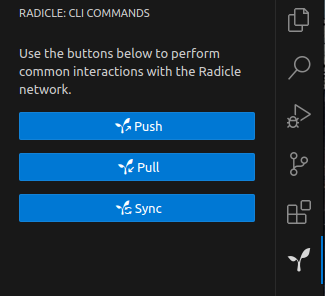
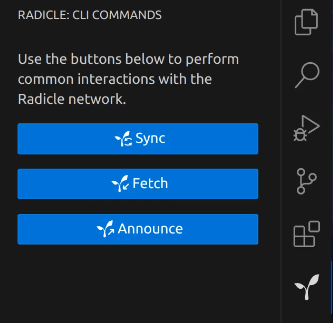
fix(commands): replace deprecated rad pull/push with fetch/announce

diff --git a/src/helpers/command.ts b/src/helpers/command.ts
@@ -8,32 +8,64 @@ import {
 } from '../ux'
 import { getRadCliRef } from '.'
 
-/**
- * PRE-CONDITION:
- *
- * Each command has a matching entry defined in package.json's `contributes.commands`.
- */
-const simpleRadCliCmdsToRegisterInVsCode = ['push', 'pull', 'sync'] as const
-type CmdCallback = Parameters<typeof commands.registerCommand>['1']
-
-function registerSimpleVsCodeCmd(name: string, action: CmdCallback): void {
-  getExtensionContext().subscriptions.push(commands.registerCommand(`radicle.${name}`, action))
+interface RadCliCmdMappedToVscodeCmdId {
+  /**
+   * The ID used within the app's source code to reference the VS Code command.
+   *
+   * PRE-CONDITIONS:
+   * - Must match an entry defined in package.json's `contributes.commands`
+   *
+   * @example 'radicle.fetch'
+   */
+  vscodeCmdId: `radicle.${string}`
+  /**
+   * The actual sub-command to be run by the Radicle CLI. Value will be appended to a
+   * reference to the rad binary before executing it in the shell:
+   *
+   * @example 'sync --fetch' // `rad sync --fetch`
+   */
+  radCliCmdSuffix: string
 }
 
-function registerSimpleRadCliCmdsAsVsCodeCmds(cmds: string[] | readonly string[]): void {
+const simpleRadCliCmdsToRegisterInVsCode: Parameters<
+  typeof registerSimpleRadCliCmdsAsVsCodeCmds
+>['0'] = [
+  { vscodeCmdId: 'radicle.sync', radCliCmdSuffix: 'sync' },
+  { vscodeCmdId: 'radicle.fetch', radCliCmdSuffix: 'sync --fetch' },
+  { vscodeCmdId: 'radicle.announce', radCliCmdSuffix: 'sync --announce' },
+] as const
+
+function registerSimpleVsCodeCmd(
+  vscodeCmdId: RadCliCmdMappedToVscodeCmdId['vscodeCmdId'],
+  action: Parameters<typeof commands.registerCommand>['1'],
+): void {
+  getExtensionContext().subscriptions.push(commands.registerCommand(vscodeCmdId, action))
+}
+
+function registerSimpleRadCliCmdsAsVsCodeCmds(
+  cmdConfigs: readonly RadCliCmdMappedToVscodeCmdId[],
+): void {
   const button = 'Show output'
 
-  cmds.forEach((radCliCmd) =>
+  cmdConfigs.forEach((cmdConfig) =>
     getExtensionContext().subscriptions.push(
-      commands.registerCommand(`radicle.${radCliCmd}`, async () => {
+      commands.registerCommand(cmdConfig.vscodeCmdId, async () => {
         const didAuth = await authenticate()
         const didCmdSucceed =
-          didAuth && Boolean(exec(`${getRadCliRef()} ${radCliCmd}`, { shouldLog: true }))
+          didAuth &&
+          Boolean(
+            exec(`${getRadCliRef()} ${cmdConfig.radCliCmdSuffix}`, {
+              cwd: '$workspaceDir',
+              shouldLog: true,
+            }),
+          )
 
         didCmdSucceed
-          ? window.showInformationMessage(`Command "rad ${radCliCmd}" succeeded`)
+          ? window.showInformationMessage(
+              `Command "rad ${cmdConfig.radCliCmdSuffix}" succeeded`,
+            )
           : window
-              .showErrorMessage(`Command "rad ${radCliCmd}" failed`, button)
+              .showErrorMessage(`Command "rad ${cmdConfig.radCliCmdSuffix}" failed`, button)
               .then((userSelection) => {
                 userSelection === button && showLog()
               })
@@ -48,7 +80,7 @@ function registerSimpleRadCliCmdsAsVsCodeCmds(cmds: string[] | readonly string[]
 export function registerAllCommands(): void {
   registerSimpleRadCliCmdsAsVsCodeCmds(simpleRadCliCmdsToRegisterInVsCode)
 
-  registerSimpleVsCodeCmd('showExtensionLog', showLog)
-  registerSimpleVsCodeCmd('deAuthCurrentIdentity', deAuthCurrentRadicleIdentity)
-  registerSimpleVsCodeCmd('clone', selectAndCloneRadicleProject)
+  registerSimpleVsCodeCmd('radicle.showExtensionLog', showLog)
+  registerSimpleVsCodeCmd('radicle.deAuthCurrentIdentity', deAuthCurrentRadicleIdentity)
+  registerSimpleVsCodeCmd('radicle.clone', selectAndCloneRadicleProject)
 }

diff --git a/src/helpers/config.ts b/src/helpers/config.ts
@@ -5,8 +5,8 @@ import { assertUnreachable, exec } from '../utils'
  * Lists they keys of configuration options available to the user along with
  * the possible types their values can have.
  *
- * PRE-CONDITION:
- * Each config key has a matching entry in `contributes.configuration` defined
+ * PRE-CONDITIONS:
+ * - Each config key has a matching entry in `contributes.configuration` defined
  * in package.json .
  */
 export interface ExtensionConfig {

diff --git a/README.md b/README.md
@@ -12,31 +12,31 @@ A VS Code extension bringing support for the Radicle network to your IDE.
 
 > _See the latest, as well as upcoming, updates in the [🗒 Change Log](CHANGELOG.md)._
 
-- [🖲 Execute Radicle commands](#integrated-radicle-commands) right from your IDE. Use whichever of the multiple integrated ways fits your workflow best.
-- [🔐 Integrated Authentication](#integrated-authentication) eases your Radicle Identity management
-- [📥 Cloning](#cloning) of tracked Radicle projects
-- [🗺 Onboarding flow](#onboarding-flow) with tips specialized to whichever state your Workspace is in when starting out
-- [🕵♂ Troubleshooting flow](#troubleshooting-flow) helping you point the extension to a Radicle CLI binary (if it didn't already auto-resolve)
-- [🎛 Configurable](#configurable) via VS Code's native Settings
-- [📜 Integrated logging](#integrated-logging) including Radicle command output
+- 🖲 [Execute Radicle commands](#integrated-radicle-commands) right from your IDE. Use whichever of the multiple integrated ways fits your workflow best.
+- 🔐 [Integrated Authentication](#integrated-authentication) eases your Radicle Identity management
+- 📥 [Cloning](#cloning) of tracked Radicle projects
+- 🗺 [Onboarding flow](#onboarding-flow) with tips specialized to whichever state your Workspace is in when starting out
+- 🕵♂ [Troubleshooting flow](#troubleshooting-flow) helping you point the extension to a Radicle CLI binary (if it didn't already auto-resolve)
+- 🎛 [Configurable](#configurable) via VS Code's native Settings
+- 📜 [Integrated logging](#integrated-logging) including Radicle command output
 
 ### Integrated Radicle Commands
 
-- Buttons to execute Pull, Push Sync Radicle commands in the main extension View
+- Execute common Radicle commands with dedicated buttons from within the main extension View
 
-    ![Buttons to execute Pull, Push Sync Radicle commands in the main extension View](assets/for-md/rad-cmds-in-main-view.png)
+    ![Buttons to execute Radicle commands in the main extension View](assets/for-md/rad-cmds-in-main-view.png)
 
-- Commands to execute Pull, Push Sync Radicle commands in VS Code's Command Palette
+- Execute Radicle commands from within VS Code's Command Palette
 
-    ![Commands to execute Pull, Push Sync Radicle commands in VS Code's Command Palette](assets/for-md/rad-cmds-in-palette.png)
+    ![Execute Radicle commands from within VS Code's Command Palette](assets/for-md/rad-cmds-in-palette.png)
 
-- Button to execute Sync Radicle command in native Source Control View's title buttons (above commit message input)
+- Sync with the Radicle network with a dedicated button among the native Source Control View's title buttons (above commit message input)
 
-    ![Button to execute Sync Radicle command in native Source Control View's title buttons (above commit message input)](assets/for-md/rad-cmds-in-scm-title.png)
+    ![Sync with the Radicle network with a dedicated button among the native Source Control View's title buttons (above commit message input)](assets/for-md/rad-cmds-in-scm-title.png)
 
-- List items to execute Pull, Push Sync Radicle commands grouped in a "Radicle" submenu inside the native Source Control View's three-dot-menu
+- Find Radicle commands grouped as a "Radicle" submenu inside the native Source Control View's three-dot-menu
 
-    ![List items to execute Pull, Push Sync Radicle commands grouped in a "Radicle" submenu inside the native Source Control View's three-dot-menu](assets/for-md/rad-cmds-in-scm-3dot.png)
+    ![Find Radicle commands grouped as a "Radicle" submenu inside the native Source Control View's three-dot-menu](assets/for-md/rad-cmds-in-scm-3dot.png)
 
 ### Integrated Authentication
 

diff --git a/CHANGELOG.md b/CHANGELOG.md
@@ -1,5 +1,13 @@
 # Radicle VS Code Extension Change Log
 
+## _(WIP, yet unreleased version)_
+
+### 🩹 Fixes
+
+- **commands:** replace pre-heartwood, now deprecated rad pull/push commands with fetch/announce across multiple UI locations ([#42](https://github.com/cytechmobile/radicle-vscode-extension/issues/42))
+
+-----
+
 ## **v0.2.1** (June 29th, 2023)
 
 ### 🩹 Fixes
